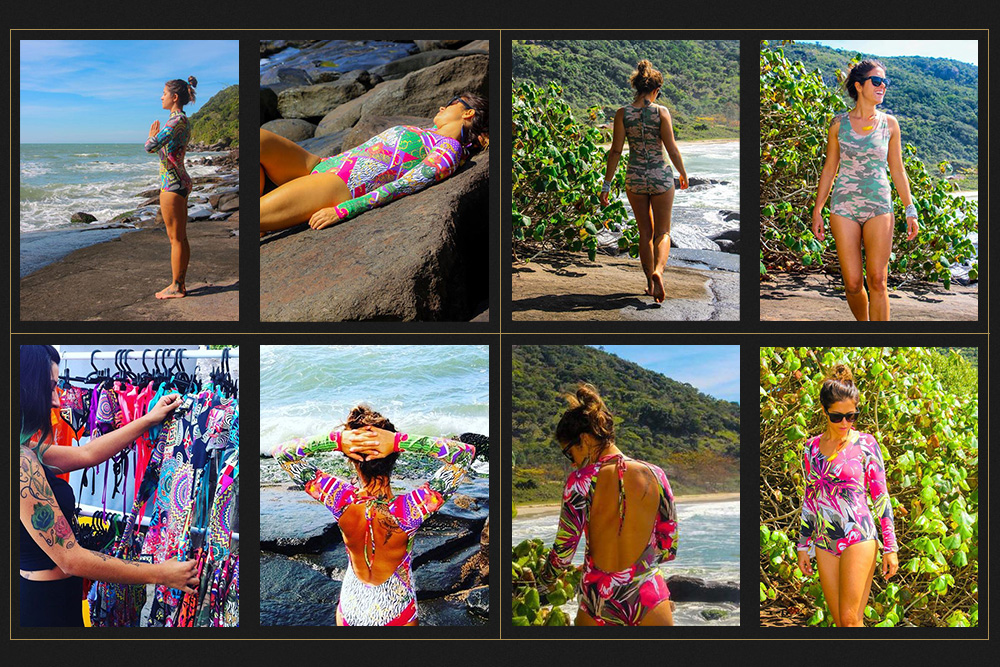
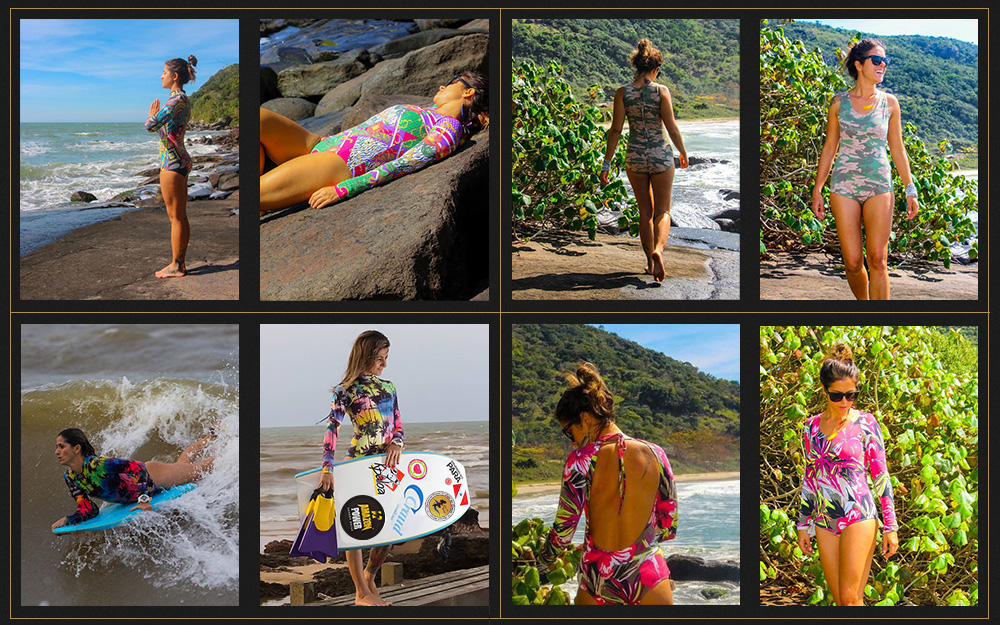
added media querie to xan pc 1440x900 and updated the image from the sponsor section luxo de sereia adding xan image with the bodyboard

diff --git a/css/app.css b/css/app.css
@@ -8,6 +8,7 @@ p.background{top:-132px;}
 .client-quote-mark.quote_xan{top:-131px;}
 h2.header_interview{top:-120px;}
 .carousel-inner.interview_carousel_ten{top:-454px;}
+.xan_interview{background: rgb(211, 217, 223);}
 #myCarousel .imagelightbox-arrow, #myCarousel .carousel-control.left, #myCarousel .carousel-control.right, #myCarousel .sponsor_carousel.carousel-control.right, #myCarousel .sponsor_carousel.carousel-control.left{top:146px;}
 .co_sponsor_logo.sponsor_background{min-width:1276px;}
 .carousel-caption h6{top:42px;left:-35%;}
@@ -55,7 +56,7 @@ p.background{top:-176px;}
 h2.header_interview{top:-173px;}
 .carousel-inner.interview_carousel_ten{top:-507px;}
 #myCarousel .imagelightbox-arrow, #myCarousel .carousel-control.left, #myCarousel .carousel-control.right, #myCarousel .sponsor_carousel.carousel-control.right, #myCarousel .sponsor_carousel.carousel-control.left{top:116px;}
-.co_sponsor_logo.sponsor_background{min-width:1345px;}
+.co_sponsor_logo.sponsor_background{min-width:99.7%;}
 .carousel-caption h6{top:40px;left:-36.4%;}
 h6.co_sponsor_h6_en{left:-45%;top:46px;}
 h6.sponsor_en{left:-42.2%!important;top:-1rem;}
@@ -83,6 +84,33 @@ h6.link_en{left:-59%;}
 .nav-effect > a{left:44.98%;}
 a.jnr_email{left:40.2%;}
 }
+/*--------=== 1440 x 900 pc xan ===---------*/
+@media only screen and (min-width: 1440px){
+.xan_interview {
+  background: rgb(211, 217, 223);
+  }
+.carousel-inner.interview_carousel_ten {
+  top: -413px;
+  }
+.carousel-inner.interview_carousel_ten>.item>img, .carousel-inner.interview_carousel_ten>.item>a>img {
+  height: 847px;
+  }
+  p.background{
+    font-size: 1.2em;
+  }
+  h2.header_interview {
+    top: -137px;
+  }
+  #myCarousel .imagelightbox-arrow, #myCarousel .carousel-control.left, #myCarousel .carousel-control.right, #myCarousel .sponsor_carousel.carousel-control.right, #myCarousel .sponsor_carousel.carousel-control.left {
+    top: 188px;
+  }
+  .home .grigio {
+    margin-top: -666px!important;
+  }
+}
+
+/*-------------=== iPad ===-------------*/
+
 @media only screen and (min-device-width: 768px) and (max-device-height: 1024px) and (orientation: portrait) and (-webkit-min-device-pixel-ratio: 2){
 .navbar .nav{
 	position: relative;
@@ -403,6 +431,8 @@ a.jnr_email {
   margin-top: 512px;
 	}
 }
+
+/* end */
 
 html{}
 body{background:#424b51;}

diff --git a/index.html b/index.html
@@ -858,9 +858,9 @@ C315.888,438.556,462,417.889,462,315.521z"></path>
 <div class="item sponser_margen sponser_margen_four clearfix">
 <div class='sponsor_background'>
 <div class="wrapper_video">
-<video autoplay loop muted class="bgvideo" id="bgvideo">
+<!--<video autoplay loop muted class="bgvideo" id="bgvideo">
 <source src="video/xan_three_sixty_video.mp4" type="video/mp4">
-</video>
+</video>-->
 </div>
 <img class='sponser_image sponsor_image_two' src="img/sponsor/360/logo_360_two.png" alt="">
 <div class="carousel-caption">
